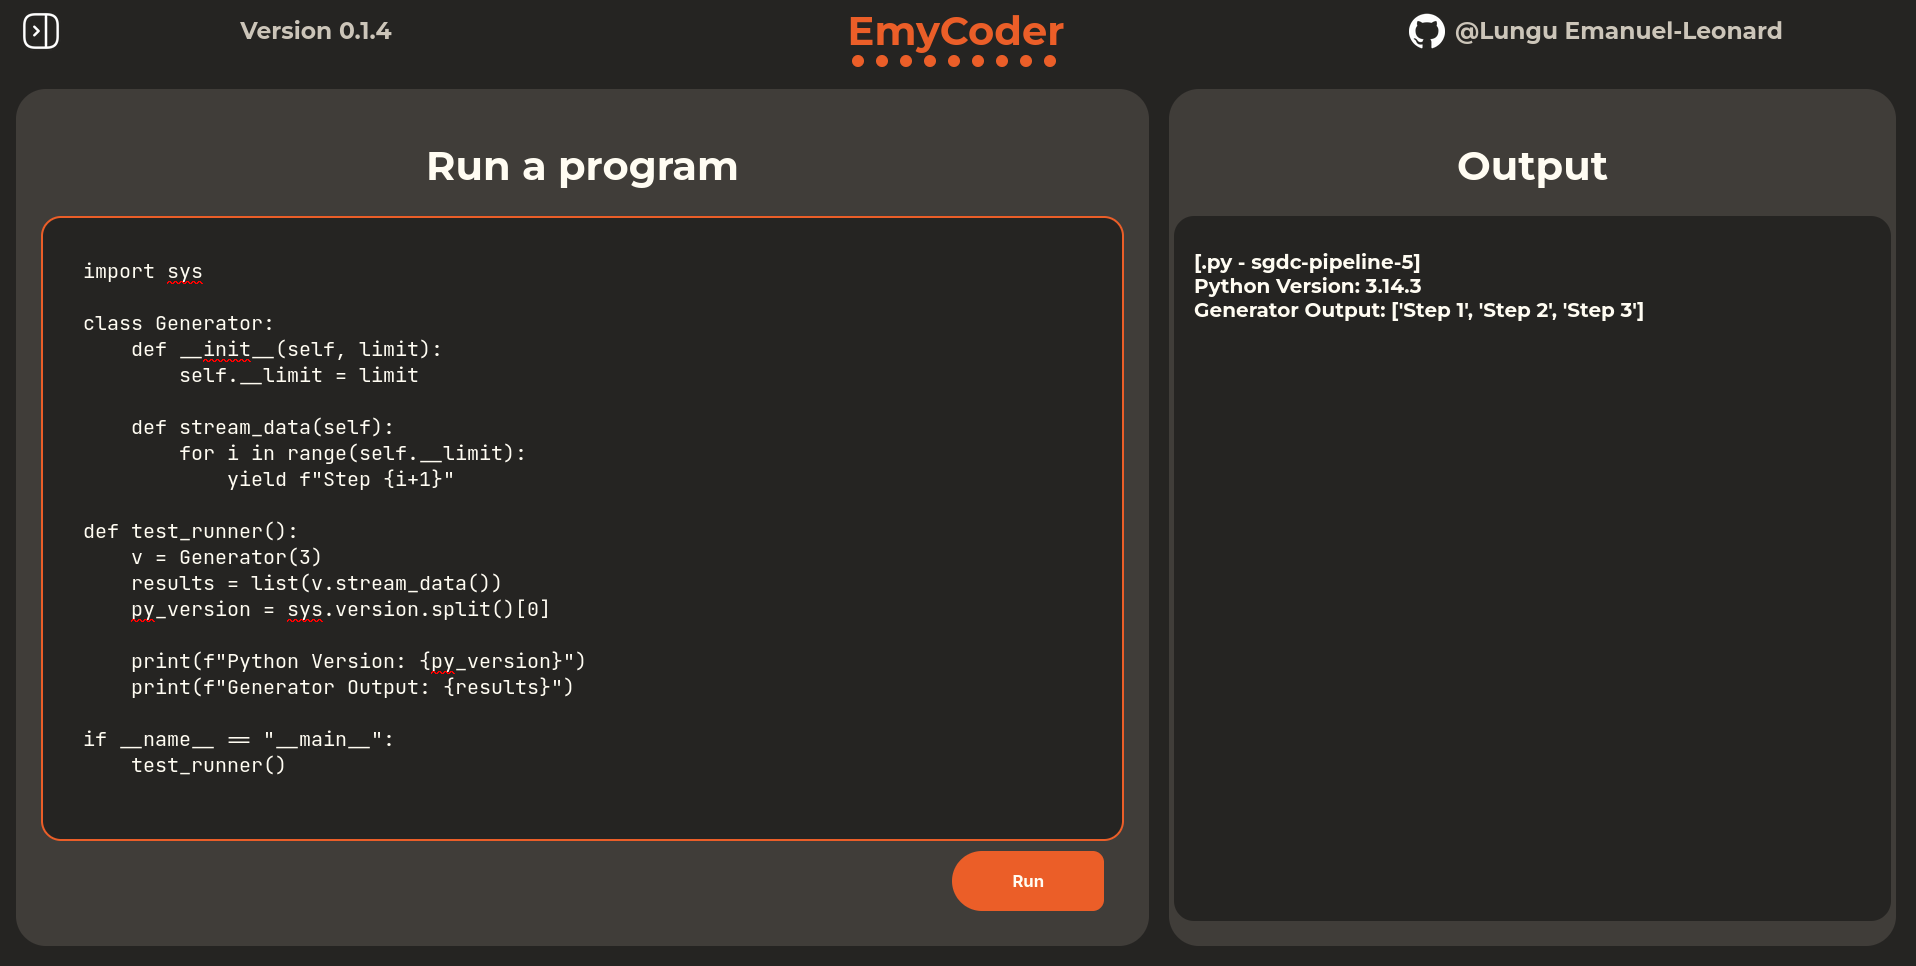
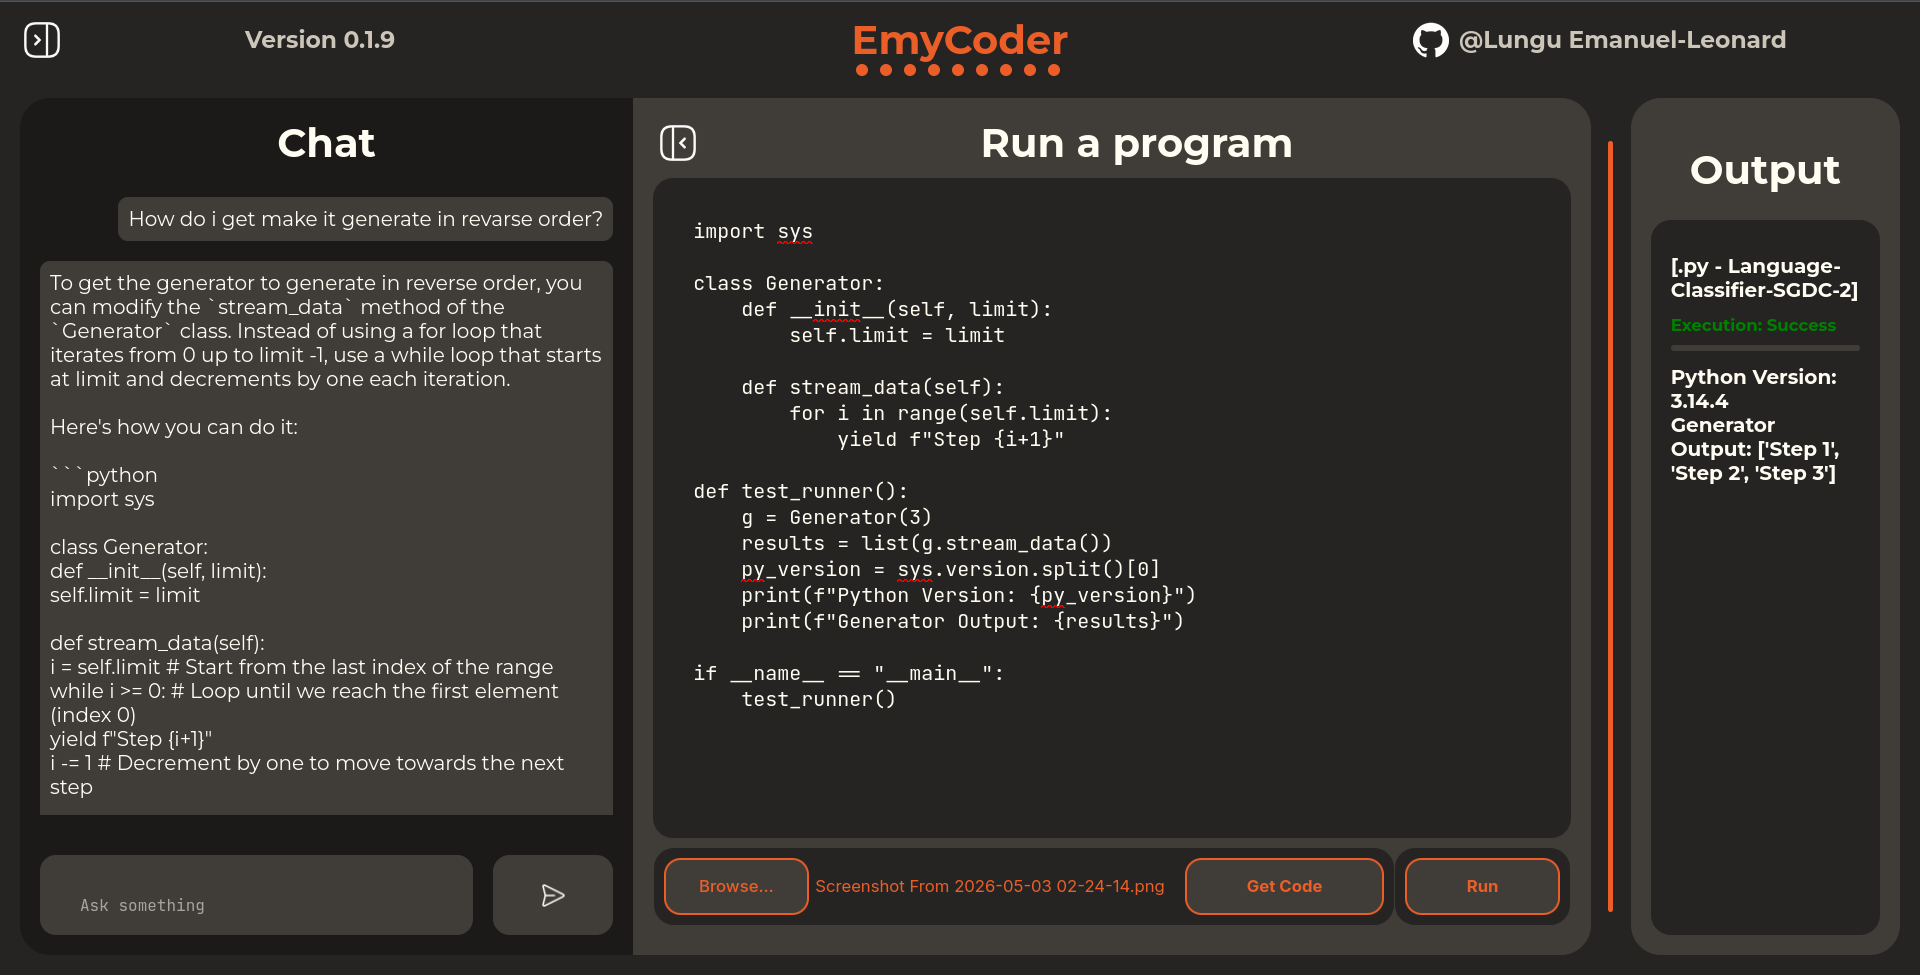
Update Docs

diff --git a/README.md b/README.md
@@ -1,11 +1,14 @@
-# EmyCoder: Language Prediction & Execution API
+# EmyCoder: A Secure, AI-Powered Playground for Code Learning
 
-EmyCoder is a high-performance FastAPI application that uses machine learning to identify the programming language of a code snippet and executes it within isolated environment.
+**EmyCoder** is a comprehensive **MLOps** platform built to provide a safe, **intelligent environment** for running and learning code. By combining custom-trained **machine learning** models with isolated execution environments, it offers a secure "**sandbox**" where users can experiment with code, receive **AI-driven guidance**, and explore the lifecycle of a production-grade ML system.
 
-#### Predictor:
-![Predictor preview Image](preview/predictor.png)
+The platform handles everything from the initial data scrape to secure script execution. It features a **language classifier** trained from **scratch** on a unique GitHub-sourced dataset, managed and versioned through a dedicated MLOps pipeline. To enhance the learning experience, **EmyCoder** integrates basic **computer vision** for **text extraction** and a fully local **AI chat assistant**, ensuring that your data and code never leave your infrastructure.
+
 #### Runner:
 ![Runner preview Image](preview/runner.png)
+
+#### Classifier:
+![Predictor preview Image](preview/classifier.png)
 
 ## 🚀 Key Features
 
